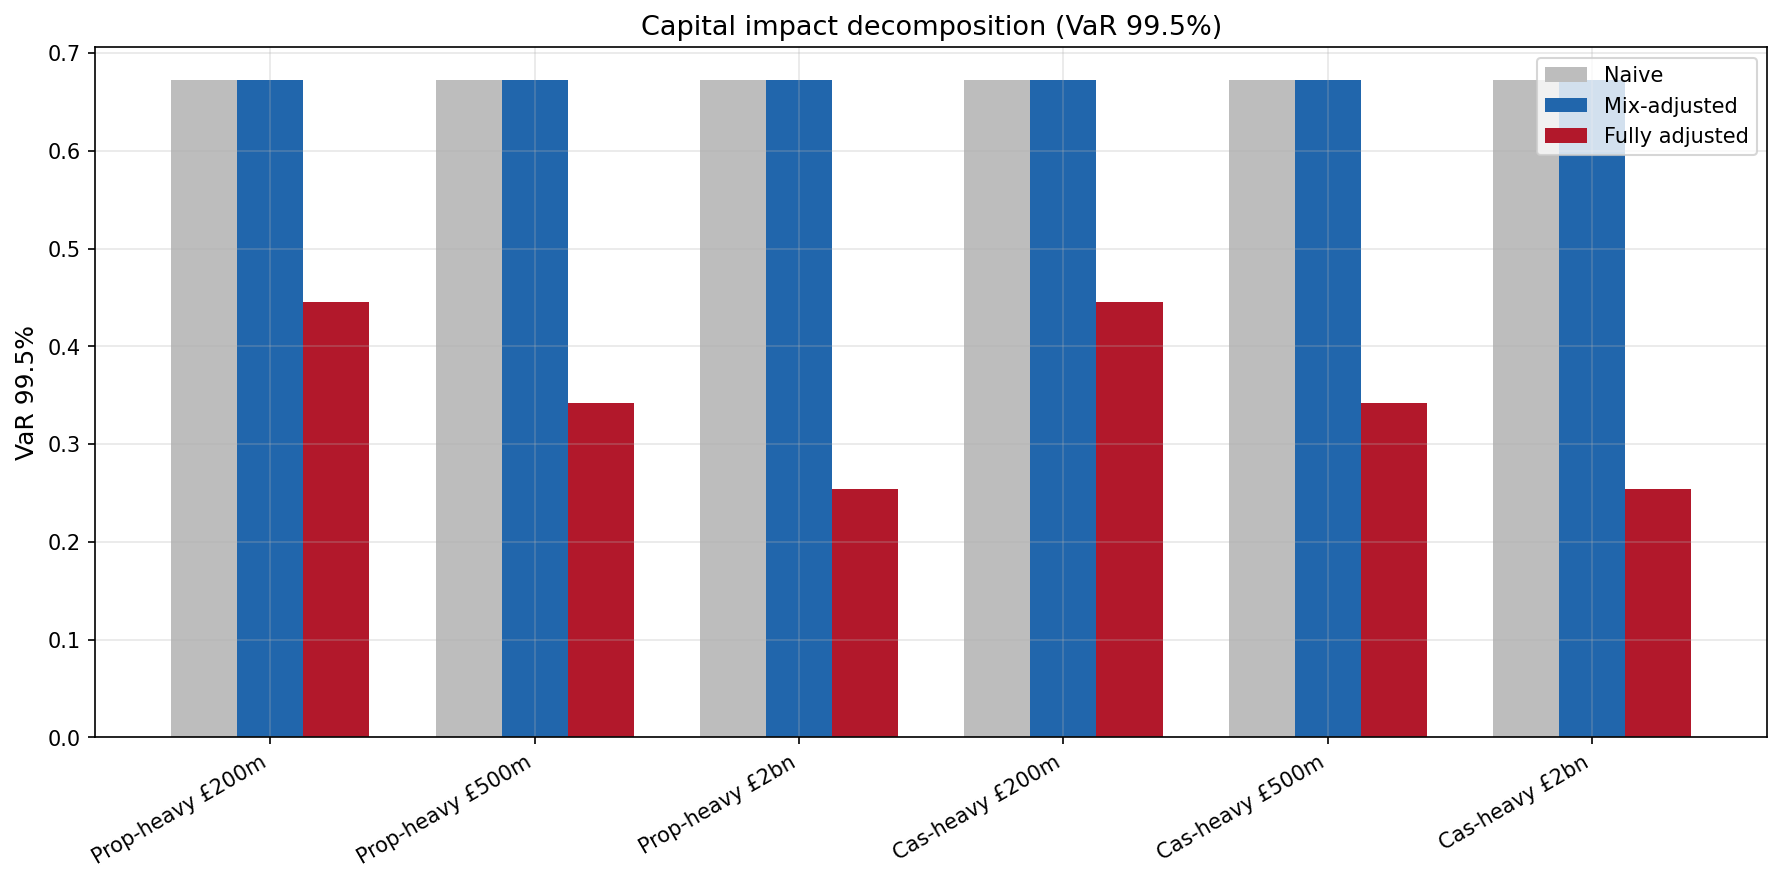
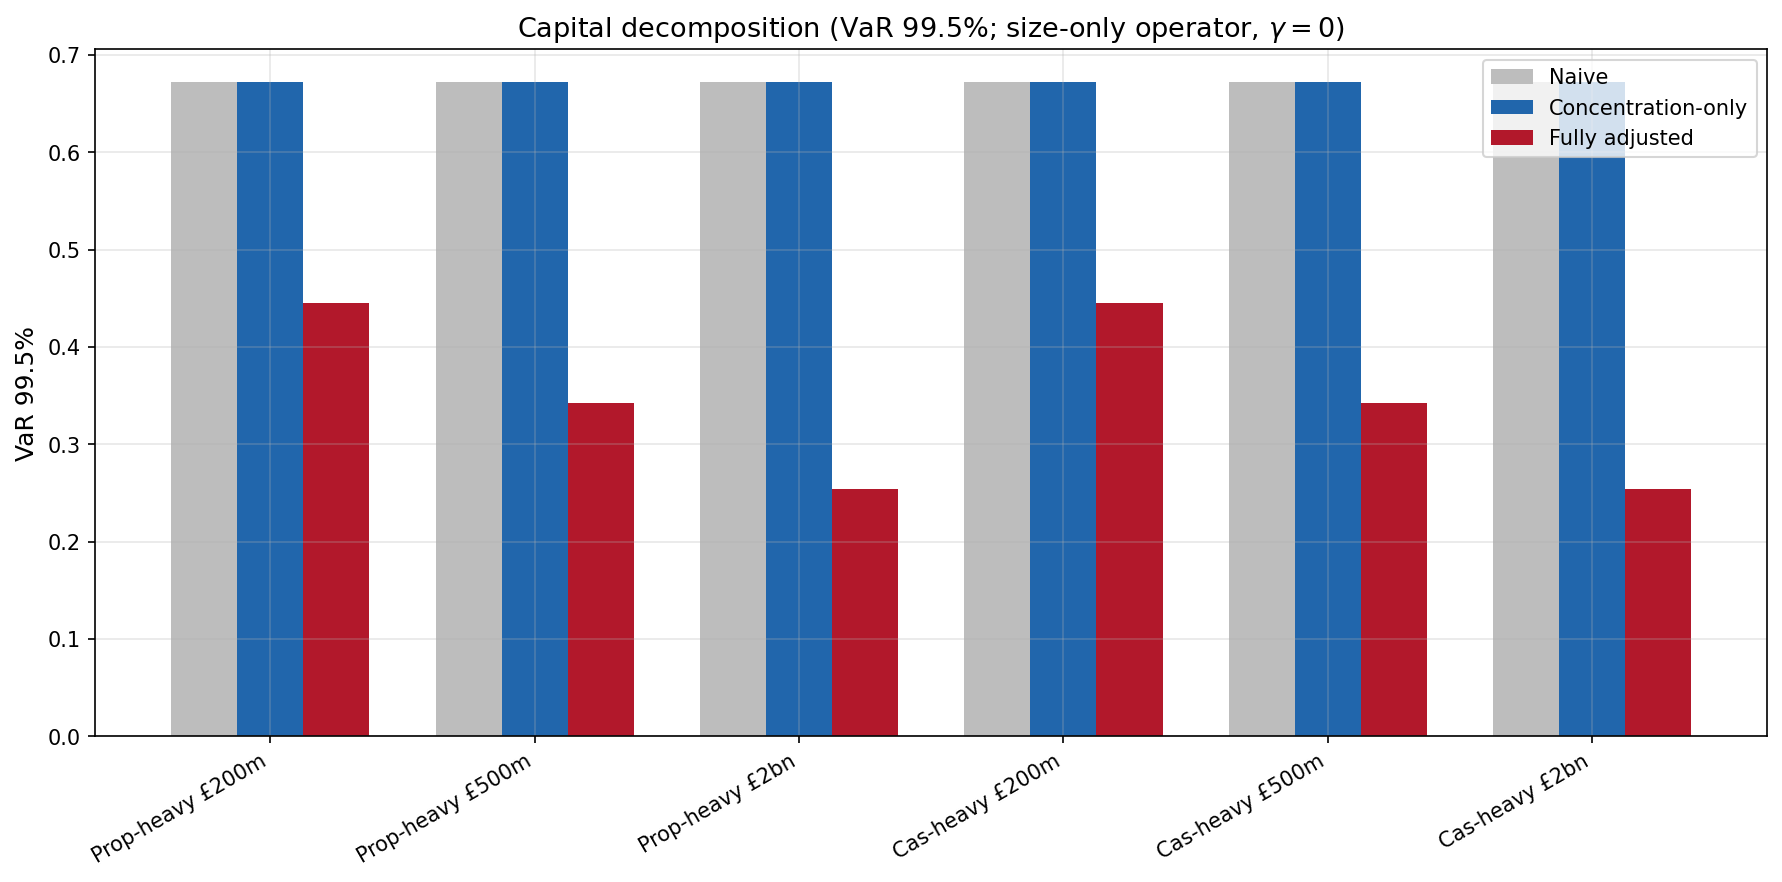
Identify concentration in capital decomposition outputs

diff --git a/src/run_analysis.py b/src/run_analysis.py
@@ -6963,8 +6963,8 @@ def _gen_table3(results):
 
 def _gen_table4(results):
     ports = _safe_get(results, "capital_impact", "portfolios", default=[])
-    body = ("\\textbf{Portfolio} & \\textbf{Raw} & \\textbf{Mix-adj.} & "
-            "\\textbf{Full adj.} & \\textbf{Mix effect} & \\textbf{Size effect} \\\\\n\\midrule\n")
+    body = ("\\textbf{Portfolio} & \\textbf{Raw} & \\textbf{Conc.-adj.} & "
+            "\\textbf{Full adj.} & \\textbf{Conc. effect} & \\textbf{Size effect} \\\\\n\\midrule\n")
     for p in ports:
         raw = _safe_get(p, "naive", "var_995", default=None)
         mix = _safe_get(p, "concentration_only", "var_995", default=None)
@@ -8021,7 +8021,7 @@ def _gen_fig_hhi_adjusted_size(results):
 
 
 def _gen_fig_capital_decomposition(results):
-    """Stacked/grouped bar: naive → mix_adj → full_adj for VaR 99.5%."""
+    """Grouped bar: raw, concentration-only and full adjustment for VaR 99.5%."""
     ports = _safe_get(results, "capital_impact", "portfolios", default=[])
     if not ports:
         return
@@ -8034,11 +8034,11 @@ def _gen_fig_capital_decomposition(results):
     width = 0.25
     fig, ax = plt.subplots(figsize=(12, 6))
     ax.bar(x - width, naive_vals, width, label="Naive", color='#bdbdbd')
-    ax.bar(x, mix_vals, width, label="Mix-adjusted", color=_PP_RAW_COL)
+    ax.bar(x, mix_vals, width, label="Concentration-only", color=_PP_RAW_COL)
     ax.bar(x + width, full_vals, width, label="Fully adjusted", color=_PP_STD_COL)
     ax.set_xticks(x)
     ax.set_xticklabels(names, rotation=30, ha='right', fontsize=9)
-    _setup_ax(ax, "", "VaR 99.5%", "Capital impact decomposition (VaR 99.5%)")
+    _setup_ax(ax, "", "VaR 99.5%", "Capital decomposition (VaR 99.5%; size-only operator, $\\gamma=0$)")
     ax.legend(fontsize=10)
     _save_fig(fig, "fig_capital_decomposition.png")
 

diff --git a/src/test_diagnostic_plot_coordinates.py b/src/test_diagnostic_plot_coordinates.py
@@ -67,3 +67,25 @@ def test_zero_severities_remain_plotted(results, monkeypatch):
         assert fig.axes[0].get_yscale() == "symlog"
         assert np.isfinite(fig.axes[0].transData.transform((0, 0))).all()
         plt.close(fig)
+
+
+def test_capital_outputs_identify_concentration_only_and_size_only_operator(monkeypatch):
+    # Deliberately distinct synthetic values expose field swaps that gamma=0 masks.
+    results = {'capital_impact': {'portfolios': [{'name': 'Example',
+        'naive': {'var_995': 0.1}, 'concentration_only': {'var_995': 0.2},
+        'full': {'var_995': 0.5}}]}}
+    written = []
+    monkeypatch.setattr(ra, '_write_tex', lambda name, content: written.append((name, content)))
+    ra._gen_table4(results)
+    name, table = written[0]
+    assert name == 'table4_var_decomposition.tex'
+    assert 'Conc.-adj.' in table and 'Conc. effect' in table
+    assert 'Mix-adj.' not in table and 'Mix effect' not in table
+    assert 'Example & 0.1000 & 0.2000 & 0.5000 & 0.1000 & 0.3000' in table
+    assert r'\gamma=0' in table
+    fig = capture(monkeypatch, ra._gen_fig_capital_decomposition, results)
+    ax = fig.axes[0]
+    assert [bar.get_height() for bar in ax.patches] == pytest.approx([0.1, 0.2, 0.5])
+    assert [t.get_text() for t in ax.get_legend().get_texts()] == ['Naive', 'Concentration-only', 'Fully adjusted']
+    assert r'\gamma=0' in ax.get_title()
+    plt.close(fig)

diff --git a/paper_pack/table4_var_decomposition.tex b/paper_pack/table4_var_decomposition.tex
@@ -4,7 +4,7 @@
 \label{tab:var_decomposition}
 \begin{tabular}{lrrrrr}
 \toprule
-\textbf{Portfolio} & \textbf{Raw} & \textbf{Mix-adj.} & \textbf{Full adj.} & \textbf{Mix effect} & \textbf{Size effect} \\
+\textbf{Portfolio} & \textbf{Raw} & \textbf{Conc.-adj.} & \textbf{Full adj.} & \textbf{Conc. effect} & \textbf{Size effect} \\
 \midrule
 Prop-heavy £200m & 0.6724 & 0.6724 & 0.4450 & 0.0000 & -0.2275 \\
 Prop-heavy £500m & 0.6724 & 0.6724 & 0.3424 & 0.0000 & -0.3300 \\
